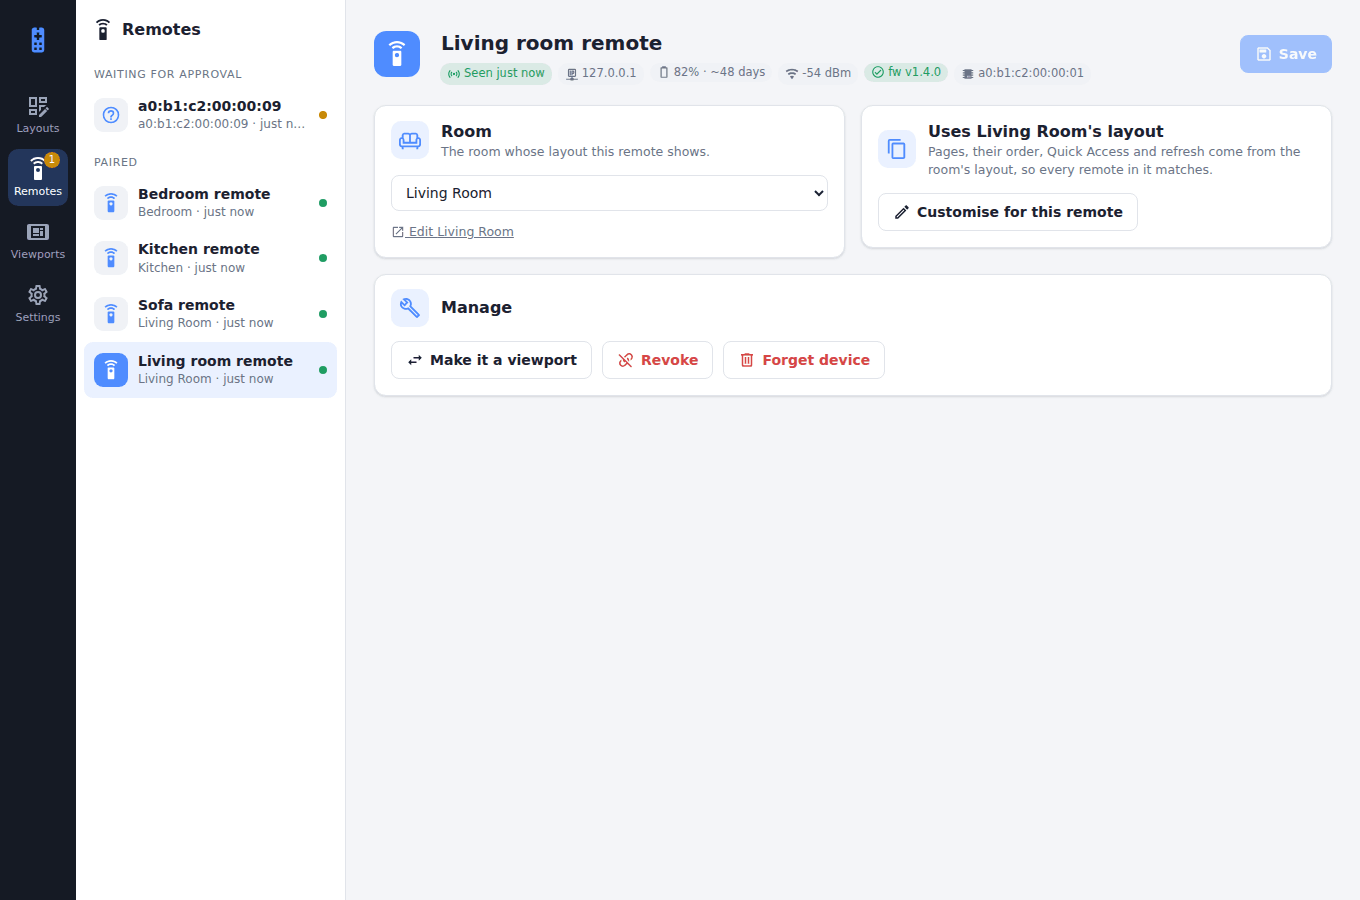
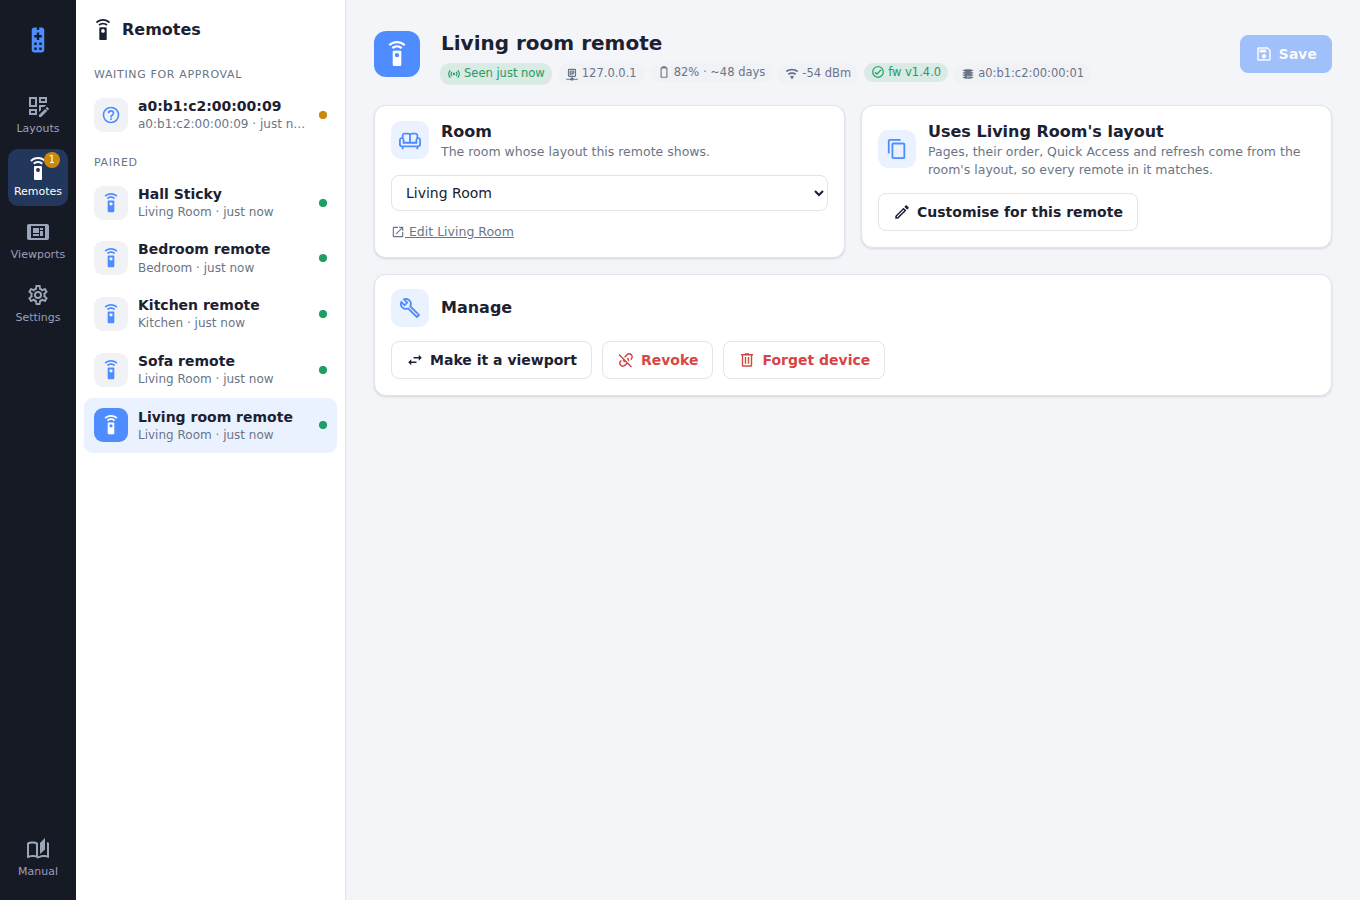
Updates by board: the firmware says what it's for, and checks downloads are
Every build now names its board: SWITCHBOARD_BOARD ("x4pro", set in
platformio.ini) goes into the image marker as SWITCHBOARD_FW:x4pro:<version>
and into an X-Board header on every request (and the update report), so a
server keeps each kind of device's releases apart. Before switching to a
download, the remote scans it for the marker (otapolicy::MarkerScan) and
refuses an image for another board; one from before boards counts as the
x4pro's. The scan skips a bare "SWITCHBOARD_FW:" with nothing after it: the
scanner's own copy of the prefix is in the image too.

Releases publish switchboard-x4pro-app-<tag>.bin (+ .sha256), checked for
the board and tag. The manual says how boards work, and what firmware for
another device, from its own repository, needs to do to take part.

Screenshots taken again from the demo, which now has a second board.

Claude-Session: https://claude.ai/code/session_01H5z5RVcfpffrJ4C2W4BTuZ

Changed region(s): [[0.0618, 0.1867, 0.2162, 0.4978], [0.0, 0.9333, 0.0309, 0.9956]]

diff --git a/include/ota_policy.h b/include/ota_policy.h
@@ -11,9 +11,14 @@
 //                  window (the server stops asking once this remote has
 //                  reported an attempt, so there's no retry cap here)
 //   inWindow       an hour within [from, to), wrapping past midnight
+//   MarkerScan     finds an image's "SWITCHBOARD_FW:<board>:<version>"
+//                  marker as it downloads; boardMatches() says whether it's
+//                  for this board (a marker with no board is the x4pro's,
+//                  from before boards)
 // ===========================================================================
 
 #include <stdint.h>
+#include <stddef.h>
 #include <string.h>
 
 namespace otapolicy {
@@ -40,6 +45,55 @@ inline bool scheduledDue(bool enabled, const char* offerVersion, int localHour, 
 
 inline bool nowDue(bool enabled, bool now, const char* offerVersion, uint8_t battPct, uint8_t minBatt) {
   return enabled && now && offerVersion && offerVersion[0] && batteryOk(battPct, minBatt);
+}
+
+// Fed an image as it downloads, a chunk at a time; keeps what follows the
+// first "SWITCHBOARD_FW:" with something after it (up to a NUL). Firmware
+// that holds the bare prefix too (this scanner's own kPrefix) has that copy
+// skipped: an empty tail keeps looking. The prefix never overlaps itself, so
+// a mismatch only has to check whether this byte starts it again.
+struct MarkerScan {
+  static constexpr const char* kPrefix = "SWITCHBOARD_FW:";
+  static constexpr uint8_t kPrefixLen = 15;
+  uint8_t matched = 0;
+  bool capturing = false;
+  bool found = false;
+  char tail[80] = "";
+  uint8_t len = 0;
+  void feed(const uint8_t* p, size_t n) {
+    for (size_t i = 0; i < n && !found; ++i) {
+      const char c = static_cast<char>(p[i]);
+      if (capturing) {
+        if (c == 0 || len >= sizeof(tail) - 1) {
+          tail[len] = 0;
+          capturing = false;
+          found = len > 0;  // the bare prefix (a string, not the marker): keep looking
+          len = 0;
+          if (found) len = static_cast<uint8_t>(strlen(tail));
+        } else {
+          tail[len++] = c;
+        }
+        continue;
+      }
+      if (c == kPrefix[matched]) {
+        if (++matched == kPrefixLen) capturing = true;
+      } else {
+        matched = c == kPrefix[0] ? 1 : 0;
+      }
+    }
+  }
+};
+
+inline constexpr const char* kLegacyBoard = "x4pro";
+
+// Whether a scanned image is for `board`: "<board>:<version>", or just
+// "<version>" (no ':') from before boards, which is the x4pro.
+inline bool boardMatches(const MarkerScan& m, const char* board) {
+  if (!m.found || !board) return false;
+  const char* colon = strchr(m.tail, ':');
+  if (!colon) return strcmp(board, kLegacyBoard) == 0;
+  const size_t n = static_cast<size_t>(colon - m.tail);
+  return n == strlen(board) && strncmp(m.tail, board, n) == 0;
 }
 
 }  // namespace otapolicy

diff --git a/include/ota_update.h b/include/ota_update.h
@@ -78,6 +78,7 @@ inline Check fetchOffer(Offer& out, char* status, size_t statusCap) {
   snprintf(auth, sizeof(auth), "Bearer %s", pairing::token);
   http.addHeader("Authorization", auth);
   http.addHeader("X-Firmware", FIRMWARE_VERSION);
+  http.addHeader("X-Board", SWITCHBOARD_BOARD);
   const int code = http.GET();
   if (code == 204) {
     http.end();
@@ -109,6 +110,7 @@ inline void report(const char* version, const char* from, bool ok, const char* e
   body["version"] = version;
   body["from"] = from;
   body["ok"] = ok;
+  body["board"] = SWITCHBOARD_BOARD;
   body["error"] = error ? error : "";
   char buf[320];
   serializeJson(body, buf, sizeof(buf));
@@ -167,6 +169,7 @@ inline bool install(const Offer& offer, uint8_t battPct, Progress progress, char
   snprintf(auth, sizeof(auth), "Bearer %s", pairing::token);
   http.addHeader("Authorization", auth);
   http.addHeader("X-Firmware", FIRMWARE_VERSION);
+  http.addHeader("X-Board", SWITCHBOARD_BOARD);
   const int code = http.GET();
   if (code != 200) {
     http.end();
@@ -193,6 +196,8 @@ inline bool install(const Offer& offer, uint8_t battPct, Progress progress, char
     }
   }
 
+  // The image must say it's for this board (its SWITCHBOARD_FW marker).
+  otapolicy::MarkerScan marker;
   mbedtls_sha256_context sha;
   mbedtls_sha256_init(&sha);
   mbedtls_sha256_starts(&sha, 0);
@@ -219,6 +224,7 @@ inline bool install(const Offer& offer, uint8_t battPct, Progress progress, char
     if (!n) continue;
     lastByteMs = millis();
     mbedtls_sha256_update(&sha, buf, n);
+    marker.feed(buf, n);
     if (Update.write(buf, n) != n) {
       ok = false;
       why = Update.errorString();
@@ -240,6 +246,10 @@ inline bool install(const Offer& offer, uint8_t battPct, Progress progress, char
       ok = false;
       why = "Checksum mismatch: the download was damaged";
     }
+  }
+  if (ok && !otapolicy::boardMatches(marker, SWITCHBOARD_BOARD)) {
+    ok = false;
+    why = "That firmware is for another kind of device";
   }
   if (!ok) {
     Update.abort();

diff --git a/test/host/test_main.cpp b/test/host/test_main.cpp
@@ -342,6 +342,30 @@ static void testOtaPolicy() {
   CHECK(!nowDue(true, true, "", 80, 30));
   CHECK(!nowDue(true, true, "v0.2.0", 25, 30));
   CHECK(!nowDue(false, true, "v0.2.0", 80, 30));
+  {
+    // An image's marker, found across chunk boundaries, and its board.
+    // (With the bare prefix first, as the firmware's own scanner string sits in it.)
+    const char img[] = "\x01\x02SWITCHBOARD_FW:\0SWITCHBOARD_\x00SWITCHBSWITCHBOARD_FW:x4pro:v1.4.0\0rest";
+    MarkerScan m;
+    for (size_t i = 0; i < sizeof(img); i += 5) m.feed(reinterpret_cast<const uint8_t*>(img) + i, sizeof(img) - i < 5 ? sizeof(img) - i : 5);
+    CHECK(m.found);
+    CHECK_STR(m.tail, "x4pro:v1.4.0");
+    CHECK(boardMatches(m, "x4pro"));
+    CHECK(!boardMatches(m, "sticky"));
+    CHECK(!boardMatches(m, "x4"));  // a prefix of the board isn't the board
+    MarkerScan other;
+    const char st[] = "SWITCHBOARD_FW:sticky:v0.2.0";
+    other.feed(reinterpret_cast<const uint8_t*>(st), sizeof(st));
+    CHECK(boardMatches(other, "sticky") && !boardMatches(other, "x4pro"));
+    MarkerScan legacy;  // from before boards: the x4pro's
+    const char old[] = "SWITCHBOARD_FW:v0.2.3";
+    legacy.feed(reinterpret_cast<const uint8_t*>(old), sizeof(old));
+    CHECK(boardMatches(legacy, "x4pro") && !boardMatches(legacy, "sticky"));
+    MarkerScan none;
+    const char no[] = "no marker here";
+    none.feed(reinterpret_cast<const uint8_t*>(no), sizeof(no));
+    CHECK(!none.found && !boardMatches(none, "x4pro"));
+  }
 
   JsonDocument doc;
   CHECK(deserializeJson(doc, R"({"firmware":{"enabled":true,"button":true,"now":true,"schedule":{"fromHour":2,"toHour":5},

diff --git a/src/main.cpp b/src/main.cpp
@@ -79,9 +79,11 @@
 #include "app/stages.h"
 #include "app/boot.h"
 
-// Embedded in the image so the server can tell a Switchboard remote build,
-// and its version, from any other file (lib/firmware.js inspect()).
-extern "C" __attribute__((used)) const char kSwitchboardFirmwareMarker[] = "SWITCHBOARD_FW:" FIRMWARE_VERSION;
+// Embedded in the image so the server can tell a Switchboard build, its
+// board and its version, from any other file (lib/firmware.js inspect()),
+// and so a remote can check a download is for its own board (ota_update.h).
+extern "C" __attribute__((used)) const char kSwitchboardFirmwareMarker[] =
+    "SWITCHBOARD_FW:" SWITCHBOARD_BOARD ":" FIRMWARE_VERSION;
 
 // Don't let the Arduino core mark a freshly installed update good at boot:
 // ota::confirm() does, once this firmware has reached the server. Until then

diff --git a/include/config.h b/include/config.h
@@ -16,6 +16,15 @@
 #define FIRMWARE_VERSION "dev"
 #endif
 
+// The board this firmware is for: the kind of device, as the server knows it
+// (its X-Board header, and the image's SWITCHBOARD_FW:<board>:<version>
+// marker). The server only offers a device updates built for its own board,
+// and ota_update.h refuses an image for any other. Set per PlatformIO env;
+// firmware for another device, from its own repository, picks its own name.
+#ifndef SWITCHBOARD_BOARD
+#define SWITCHBOARD_BOARD "x4pro"
+#endif
+
 // ---- Wi-Fi ----------------------------------------------------------------
 // Set these before flashing. Leave WIFI_SSID empty ("") to make the Wi-Fi
 // stage a visible no-op (it renders the screen, waits briefly, then moves on)

diff --git a/include/http_json.h b/include/http_json.h
@@ -174,6 +174,7 @@ inline bool request(const char* host, uint16_t port, const char* path, const cha
         http.addHeader("X-RSSI", v);
       }
       http.addHeader("X-Firmware", FIRMWARE_VERSION);
+      http.addHeader("X-Board", SWITCHBOARD_BOARD);
     }
     if (body) http.addHeader("Content-Type", "application/json");
     if (cond && cond->ifNoneMatch && *cond->ifNoneMatch)

diff --git a/docs/manual/server/remote-updates.md b/docs/manual/server/remote-updates.md
@@ -1,26 +1,58 @@
 # Remote updates (over the air)
 
-**Settings → Remote updates** sends new firmware to remotes over Wi-Fi. It's **off until you switch it on**.
+**Settings → Remote updates** sends new firmware to remotes, and to any other device that asks, over Wi-Fi. It's **off until you switch it on**.
 
-<figure class="shot"><img src="../images/admin/settings-updates.png" alt="Settings, Remote updates"><figcaption><b>Settings → Remote updates</b>: the release, how it rolls out, and every remote's state. Here v1.4.0 has reached the pilot remote.</figcaption></figure>
+<figure class="shot"><img src="../images/admin/settings-updates.png" alt="Settings, Remote updates"><figcaption><b>Settings → Remote updates</b>: each board's release and how it rolls out, and every device's state.</figcaption></figure>
 
-1. **Add a build**: upload a `switchboard-app-<version>.bin`, or pick a release from one of the **GitHub repositories** listed on the page. The list starts with the Switchboard firmware; add your own, such as a fork (`owner/name` or its GitHub URL). A release needs its `switchboard-app-<version>.bin` and `.sha256`, which the firmware's release workflow publishes, and the download is checked against the published checksum. Only listed repositories are ever read, and only when you press a button. The first in the list is the one "Get latest release" uses. The server only accepts a Switchboard remote image for the ESP32-S3 that fits the update slot, and takes the version from the image itself. A build from uncommitted changes (`-dirty`) is refused.
-2. **Choose the release**: the version remotes should run. An older build rolls remotes back to it.
-3. **Pilot first**: tick a remote or two as pilots. A new release goes only to them. When they've updated and still work, press **Release to everyone**.
-4. **How remotes install it**: from **Settings → Device info → Check for update** on the remote (can be switched off here), and/or **on a schedule**: during a window you set, on a remote's normal timer wake.
-5. **Update now**: while remotes are still due the release, the Home page's Devices card has **Update N remotes to vX now**. Each of them installs it at its next timer wake (within its refresh interval), whatever the schedule, and even with no schedule set. It keeps to the minimum battery, and to the release stage: while the release is with the pilots the button updates just them, and **Update all N now (skip pilot)** releases it to everyone in the same step (after asking), so every remote not on it installs it at its next wake. A remote that tries and fails isn't asked again at every wake; press the button again to retry. **Cancel** takes it back, and choosing another release clears it. Needs remote firmware that knows about it (later than v0.2.3); older remotes keep to the schedule.
+## Boards
 
-On the remote:
+Every build is for one **board**, a kind of device: `x4pro` is the X4 Pro remote, and firmware for another device picks its own name. The board is written inside the image, and every device says its board when it checks in. So:
+
+- a device is only ever offered a build for its own board, and it checks the download says so too before switching to it;
+- each board has its **own release**, pilot stage and **Update now**, so an X4 Pro release never waits on, or reaches, another kind of device;
+- the schedule, the button, the minimum battery, the pilot ticks and the repository list are shared.
+
+Builds and remotes from before boards count as `x4pro`.
+
+## Releasing
+
+1. **Add a build**: upload a `switchboard-<board>-app-<version>.bin`, or pick a release from one of the **GitHub repositories** listed on the page.
+   - The list starts with the Switchboard firmware. Add others as `owner/name` or their GitHub URL: a fork, or the repository of another kind of device.
+   - A release carries `switchboard-<board>-app-<version>.bin` and its `.sha256` for each board it builds (older ones, `switchboard-app-<version>.bin`, are the X4 Pro's). Every image is checked against its published checksum and against the board and version inside it; if any fails, none of the release is added.
+   - **Get latest release** checks every repository in the list.
+   - Only listed repositories are ever read, and only when you press a button.
+   - The server only accepts a Switchboard app image for an ESP32 chip that fits the update slot, and takes the board and version from the image itself. A build from uncommitted changes (`-dirty`) is refused.
+2. **Choose each board's release**: the version its devices should run. An older build rolls them back to it.
+3. **Pilot first**: tick a device or two as pilots. A new release goes only to that board's pilots. When they've updated and still work, press **Release to everyone** for that board.
+4. **How devices install it**: from **Settings → Device info → Check for update** on the remote (can be switched off here), and/or **on a schedule**: during a window you set, on a device's normal timer wake.
+5. **Update now**: while devices are still due a release, the Home page's Devices card has **Update N remotes to vX now**, one row per board (named when there's more than one). Each of them installs it at its next timer wake (within its refresh interval), whatever the schedule, and even with no schedule set. It keeps to the minimum battery, and to the board's stage: while the release is with the pilots the button updates just them, and **Update all N now (skip pilot)** releases it to everyone in the same step (after asking), so every device of that board not on it installs it at its next wake. A device that tries and fails isn't asked again at every wake; press the button again to retry. **Cancel** takes it back, and choosing another release clears it. Needs remote firmware that knows about it (later than v0.2.3); older remotes keep to the schedule.
+
+On the device:
 - **Battery:** it needs the minimum battery set here (30% by default).
-- **Integrity:** it downloads into the spare app slot and checks the SHA-256 before switching.
+- **Integrity:** it downloads into the spare app slot, checks the SHA-256, and checks the image is for its board, before switching.
 - **Rollback:** new firmware counts as good only once it reaches this server on its first run. If it can't, the bootloader goes back to the previous firmware by itself.
 - **Reporting:** every attempt is reported. Failures show on this page and on the Home page.
 - **Retries:** a scheduled update that fails twice at the same version isn't retried until you release another version.
 
 Remotes on firmware from before updates existed need one USB (or web-flasher) install first.
 
+## Firmware for other devices
+
+A device from another repository takes part by doing what the Switchboard firmware does:
+
+| | |
+|---|---|
+| **Marker** | Embed `SWITCHBOARD_FW:<board>:<version>` (NUL-terminated) in the app image. `<board>` is lower case letters, digits and `-`, up to 24; `<version>` is its release tag. |
+| **Check-ins** | Send `X-Board: <board>` and `X-Firmware: <version>` with the device's token (`Authorization: Bearer …`) on its requests to the server. |
+| **Offer** | Read the `firmware` block of its config (a remote's `/api/devices/<slug>/bundle`, a viewport's `/api/viewports/me/bundle`), or ask `GET /api/firmware/offer`: `204` for nothing, else `{board, version, size, sha256}`. `now: true` in the block means install at the next wake. |
+| **Install** | Download `GET /api/firmware/image/<version>` (only what it's offered), check its size, SHA-256 and marker, and switch only if all three match. Stay rollback-able until the new firmware has reached the server. |
+| **Report** | `POST /api/firmware/report` with `{version, from, ok, error, board}` after each attempt. |
+| **Releases** | Publish `switchboard-<board>-app-<tag>.bin` and `switchboard-<board>-app-<tag>.bin.sha256` (from `sha256sum`) on each GitHub release, so this server can add them. |
+
+Then add its repository to the list here. Its builds show under its own board, and its devices under Devices.
+
 ## Where builds are kept
 
-Builds live on this server, in `<DATA_DIR>/firmware/` (with `firmware.json` recording each one's version, size, checksum and source). Remotes only ever download from here — GitHub is read only when you press a button to add a release.
+Builds live on this server, in `<DATA_DIR>/firmware/` as `<board>-<version>.bin` (with `firmware.json` recording each one's board, version, chip, size, checksum and source). Devices only ever download from here; GitHub is read only when you press a button to add a release.
 
 See [Security](security.md) for what turning this on means, and the remote's [Updates](../remote/updates.md) page for what a remote shows while it updates.

diff --git a/docs/manual/demo.md b/docs/manual/demo.md
@@ -16,9 +16,9 @@ Open `http://localhost:45680` and sign in with the password `demo`. Ctrl-C stops
 | | |
 |---|---|
 | **Rooms** | Living Room (every page: lights and scenes, blinds, music, TV, Xbox, an Enigma2 receiver, climate, Quick Access), Kitchen and Bedroom |
-| **Remotes** | Four, one of them low on battery, plus a new one waiting for approval |
+| **Remotes** | Four X4 Pros, one of them low on battery, a Sticky (another kind of remote, on its own board), and a new one waiting for approval |
 | **Viewports** | A kitchen panel (weather, energy, heating, presence, security), a boardroom sign with a room finder, and a reception screen with company news |
-| **Remote updates** | Switched on, with v1.4.0 out to one pilot remote |
+| **Remote updates** | Switched on: the X4 Pro's v1.4.0 out to one pilot, and the Sticky's own v0.2.0 released to every Sticky |
 | **Home Assistant** | `tools/demo/fake-ha.js`: states, weather forecasts, energy history, calendars, album and box art, and an RSS feed |
 
 <figure class="shot"><img src="images/admin/layouts.png" alt="The demo's layouts"><figcaption>The demo's Layouts page.</figcaption></figure>

diff --git a/docs/manual/remote/updates.md b/docs/manual/remote/updates.md
@@ -21,6 +21,7 @@ While it installs, the screen shows the version it's going from and to, a progre
 
 - **Battery:** it won't start below the server's minimum battery (30% by default).
 - **Integrity:** the image downloads into the spare app slot, and its SHA-256 is checked before the remote switches to it.
+- **The right device:** the image must say it's for this remote's board (`x4pro`); firmware for another kind of device is refused, whatever the server offers.
 - **Rollback:** new firmware only counts as good once it reaches the server on its first run. If it restarts or sleeps before that, the remote goes back to the previous firmware by itself.
 - **Reporting:** every attempt, good or bad, is reported to the server.
 - **Retries:** a scheduled update that fails twice at the same version isn't tried again until a different version is released.

diff --git a/docs/manual/remote/releases.md b/docs/manual/remote/releases.md
@@ -10,7 +10,7 @@ GitHub Actions (`.github/workflows/release.yaml`) then:
 - checks the tagged commit is on `develop` — tag a commit that's been reviewed and merged, or the release stops;
 - builds the firmware against the pinned FreeInk SDK commit;
 - merges it into one flashable image and attaches it to a GitHub Release;
-- attaches the app image on its own, `switchboard-app-<version>.bin`, with its `.sha256`, for the server's [remote updates](../server/remote-updates.md);
+- attaches the app image on its own, `switchboard-x4pro-app-<version>.bin`, with its `.sha256`, for the server's [remote updates](../server/remote-updates.md) (`x4pro` is this firmware's board, `SWITCHBOARD_BOARD` in `platformio.ini`; the image's marker says it too);
 - publishes the flashable image to `docs/firmware/`.
 
 ## The browser flasher
